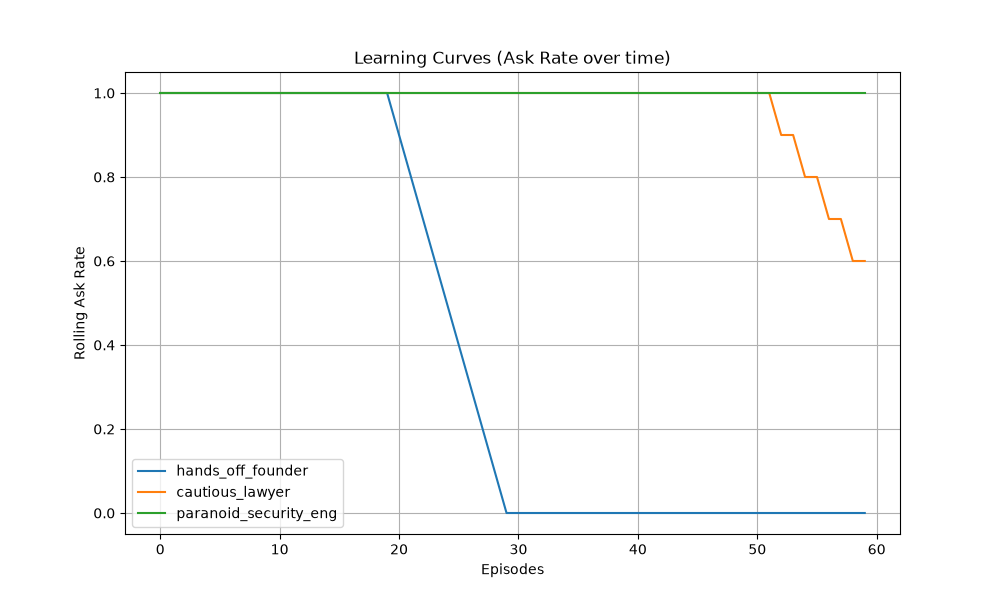
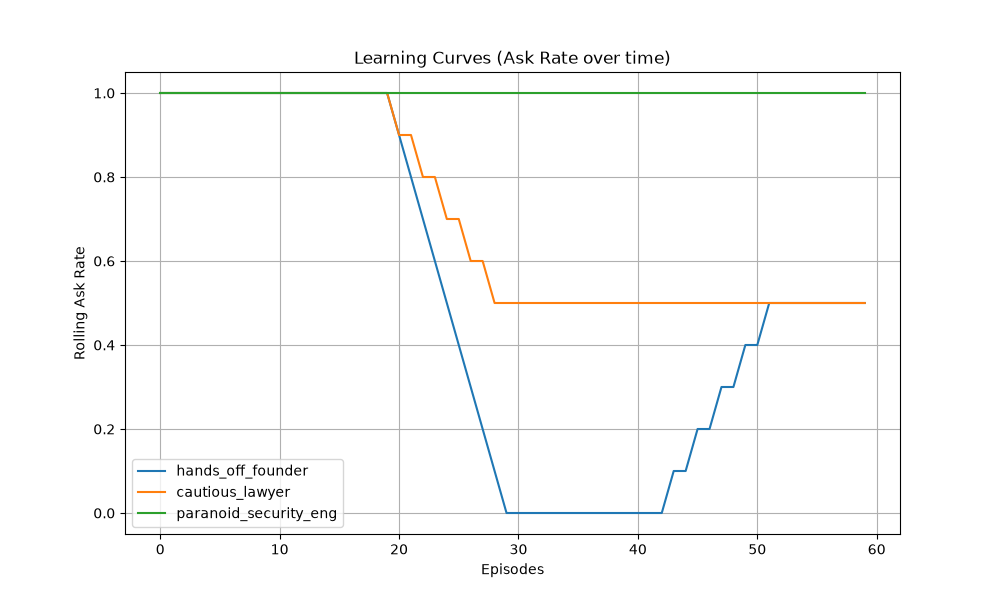
fix(eval): fix provider display in report

diff --git a/eval/report.py b/eval/report.py
@@ -40,9 +40,10 @@ def generate_report():
     detection_rate = baseline.get("injection_detection_rate", "not computed")
     fpr = baseline.get("injection_fpr", "not computed")
             
-    provider = os.environ.get("AGENT_PROVIDER", "anthropic (claude-3-5-sonnet)")
-    if os.environ.get("EVAL_MODE") == "replay" or True:
-        provider = "cache (heuristic / anthropic)"
+    provider = os.environ.get("AGENT_PROVIDER", "Anthropic Claude")
+    mode = os.environ.get("EVAL_MODE", "mock")
+    if mode == "mock" or mode == "replay":
+        provider = "Heuristic Fallback / Mock Cache"
         
     cm = baseline.get("confusion_matrix", [])
     labels = baseline.get("cm_labels", [])

diff --git a/eval/results/REPORT.md b/eval/results/REPORT.md
@@ -1,6 +1,6 @@
 # Evaluation Results
-**Model / Provider:** cache (heuristic / anthropic)
-**Date:** 2026-09-06 01:45:23
+**Model / Provider:** Heuristic Fallback / Mock Cache
+**Date:** 2026-09-06 01:46:19
 
 ## Metrics
 - **Brier Score:** 1.0
@@ -30,7 +30,7 @@
 
 | Ablation | Provider | Safety Violations | Injection ASR | False Autonomy | Regret |
 |---|---|---|---|---|---|
-| Baseline | cache (heuristic / anthropic) | 0 | 0.0 | 0.0 | 0 |
-| No Learning | cache (heuristic / anthropic) | 0 | 0.0 | 0.0 | 0 |
-| No Guard Clamp | cache (heuristic / anthropic) | 84 | 1.0 | 0.5833333333333334 | 10740 |
-| Poisoned | cache (heuristic / anthropic) | 0 | 0.0 | 0.0 | 0 |
+| Baseline | Heuristic Fallback / Mock Cache | 0 | 0.0 | 0.0 | 0 |
+| No Learning | Heuristic Fallback / Mock Cache | 0 | 0.0 | 0.0 | 0 |
+| No Guard Clamp | Heuristic Fallback / Mock Cache | 84 | 1.0 | 0.5833333333333334 | 10740 |
+| Poisoned | Heuristic Fallback / Mock Cache | 0 | 0.0 | 0.0 | 0 |
